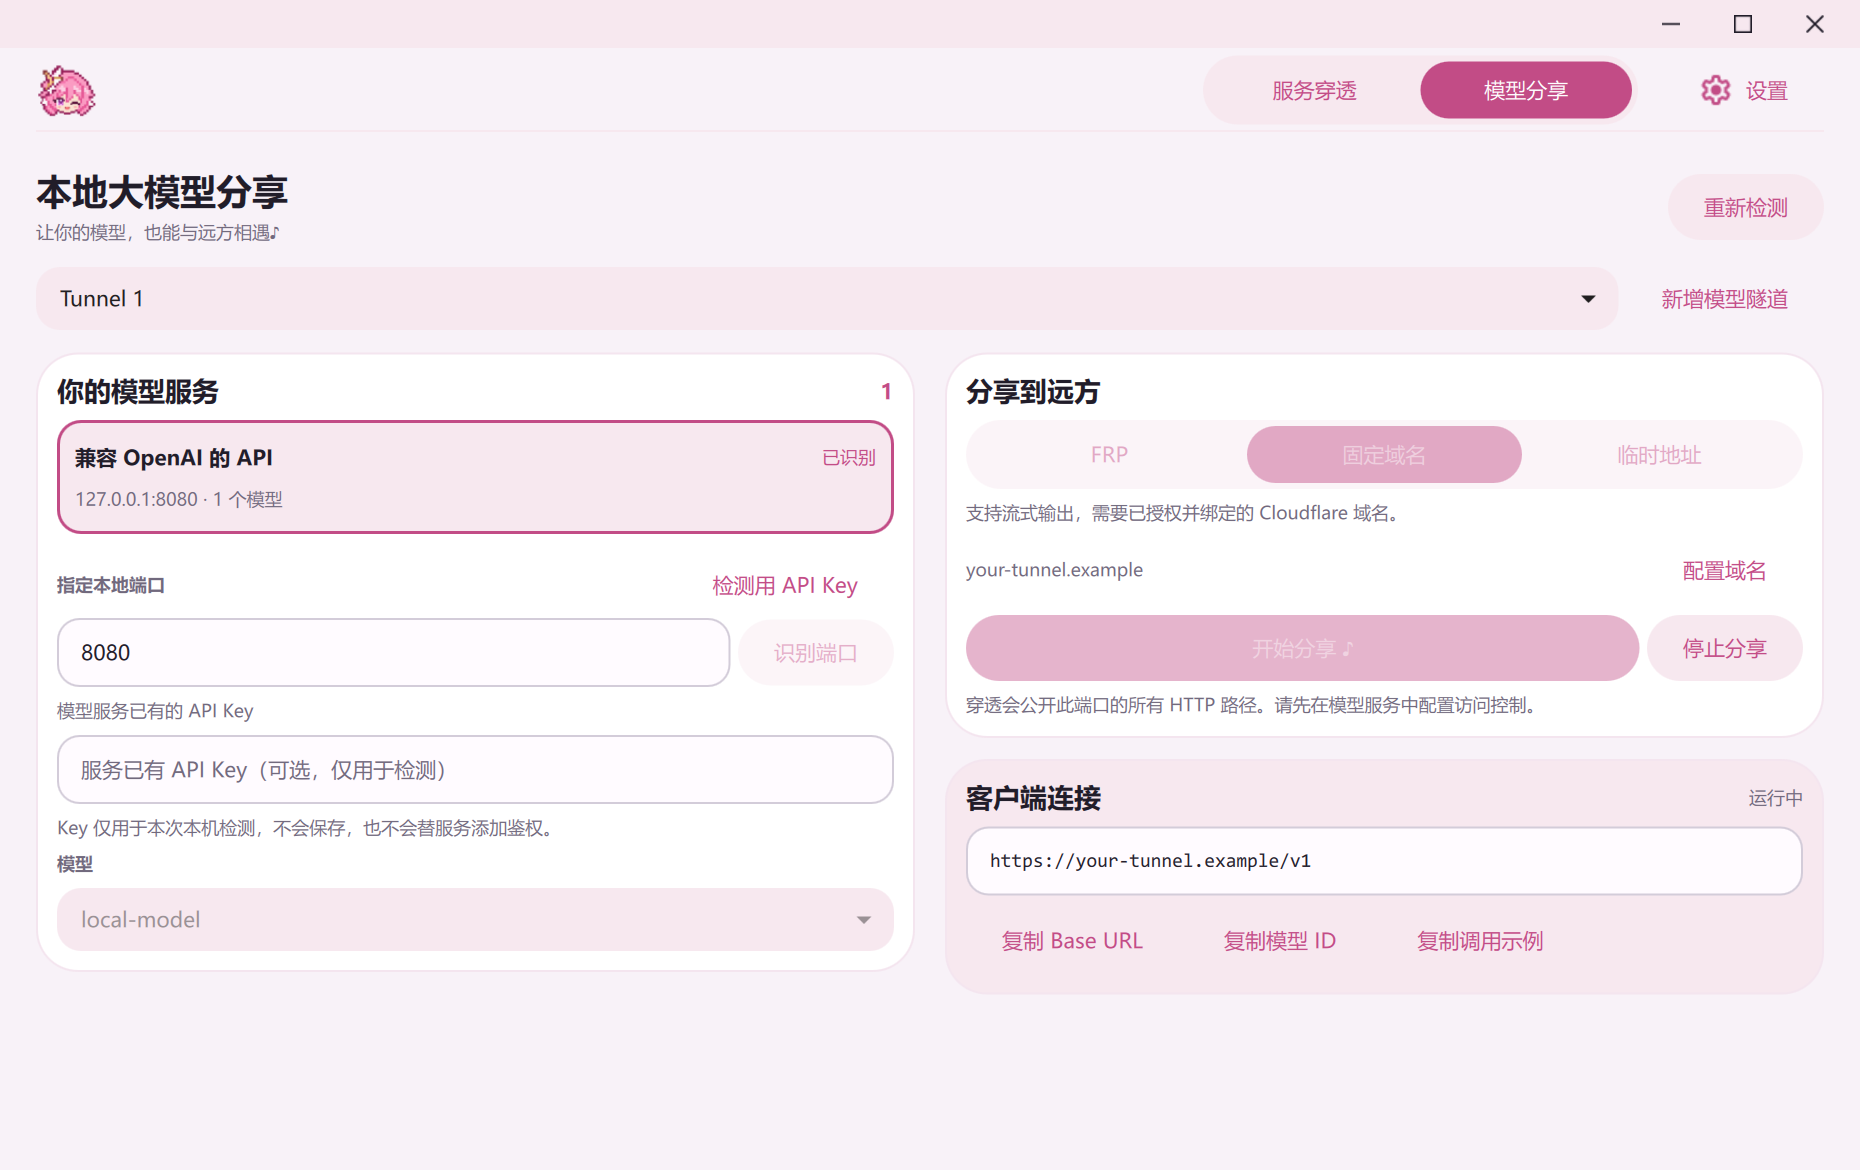
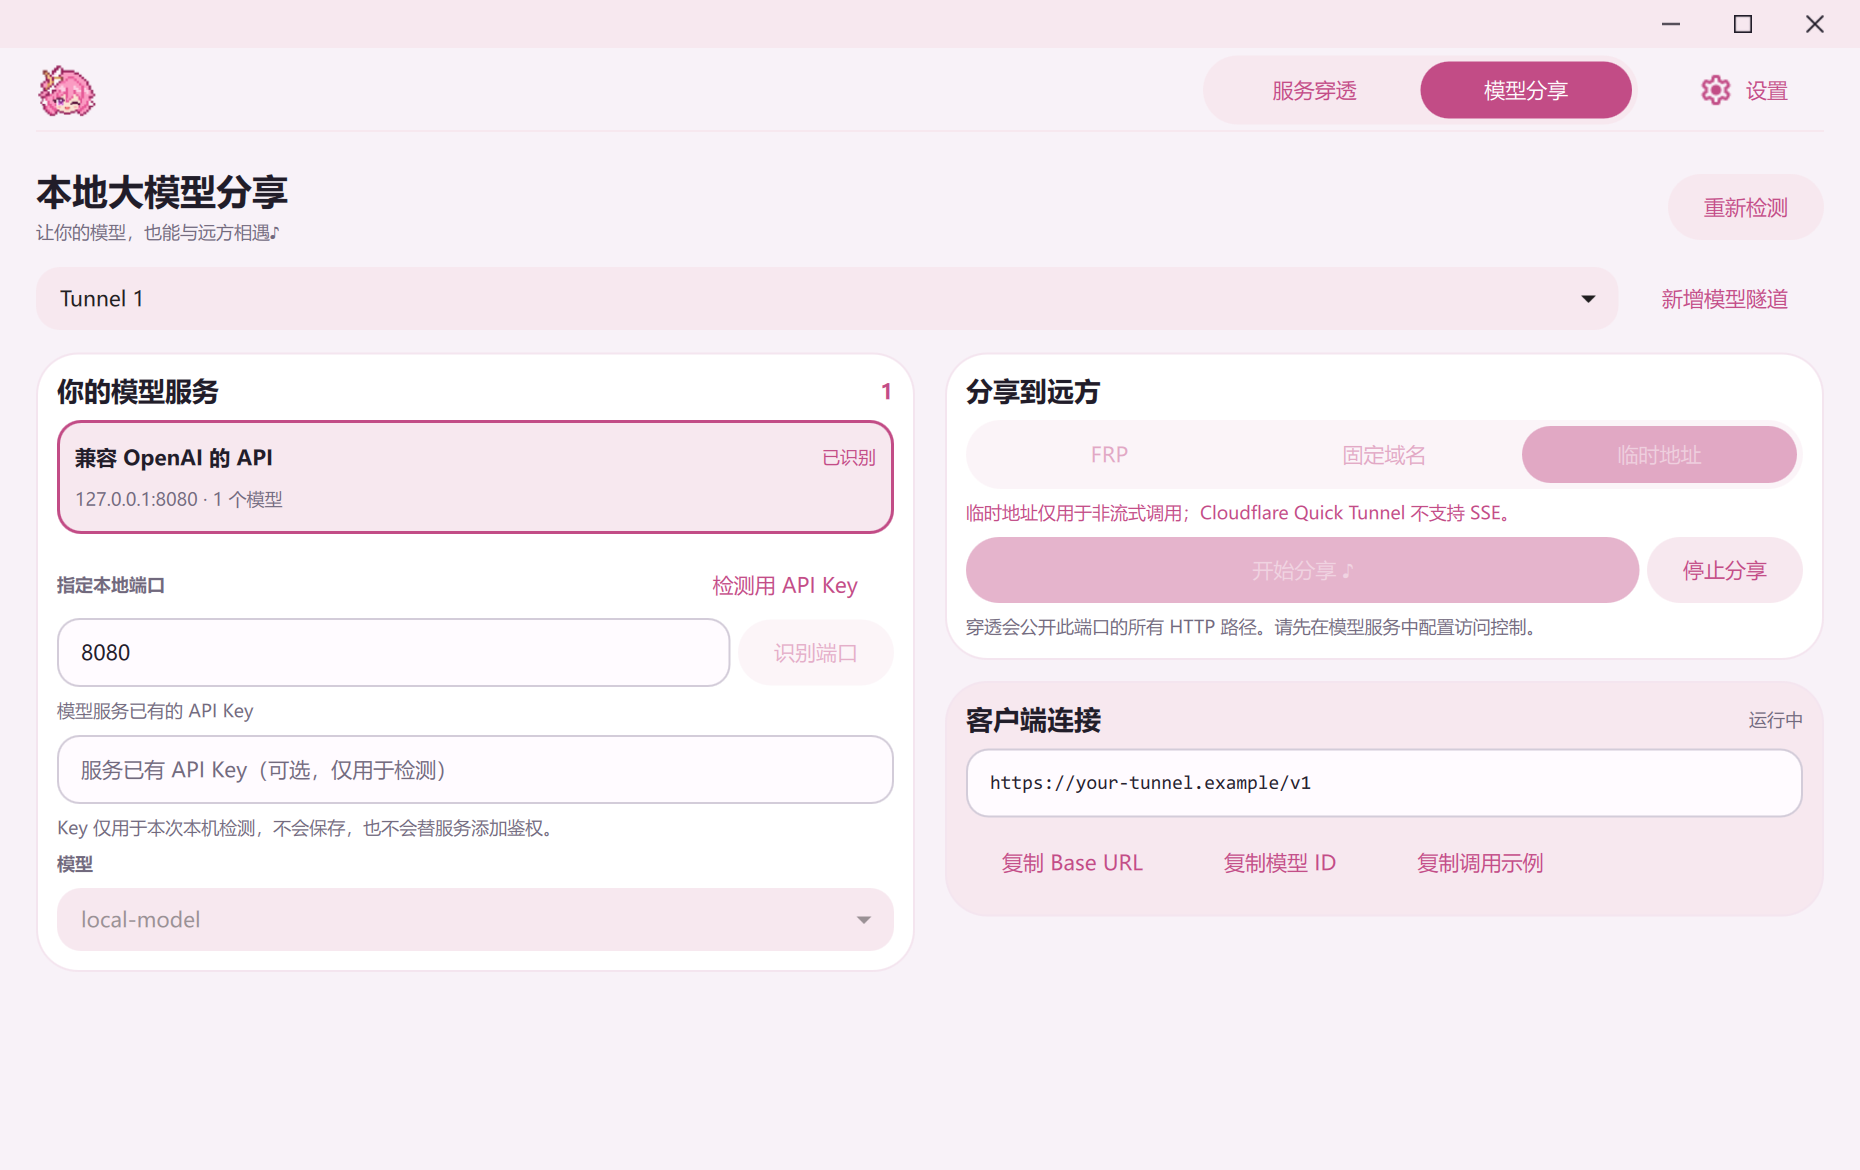
完善密钥配置教程与临时隧道实测说明

diff --git a/README.en.md b/README.en.md
@@ -26,39 +26,65 @@ The v0.4.0 EXE is about 75.33 MiB. The release also includes a `.sha256` file to
 
 ## Illustrated walkthrough: Strata → Elysia → DeepSeek Harness
 
-This walkthrough uses Strata as the model server and DSH as the remote client. Complete **steps 1–3 on the computer running the model**, then **step 4 on the computer running DSH**. Strata and DSH are separate applications to install for this example.
+Run the model in Strata, share its API with Elysia, and connect DSH as the remote client. Complete **steps 1–3 on the computer running the model**, then **step 4 on the computer running DSH**. Install Strata and DSH separately.
 
 The screenshots show real interfaces with demonstration data: `local-model` is a placeholder model ID, and `https://your-tunnel.example/v1` is an example address that cannot be used. Use your own detected model and public address. The DSH screenshots use **0.2.0-rc.2**; later versions may have different menus.
 
-**Choose a suitable transport first.** DSH 0.2.0-rc.2 has no switch to disable streaming, so this walkthrough uses configured FRP or a Cloudflare fixed domain. Cloudflare documents that [Quick Tunnels do not support SSE](https://developers.cloudflare.com/tunnel/get-started/quick-tunnels/#limitations). Temporary addresses work with Elysia's **Copy example** Python code for non-streaming requests; use another transport for DSH streaming. Public model sharing through FRP or a fixed domain has not yet been tested here.
+**Cloudflare temporary addresses can be used with DSH. Configure a server API key before sharing Strata.** A temporary address has already worked with the actual DSH client: it fetched the model list and completed a short reply, and the user has also confirmed that their temporary address works with DSH. You do not need a Cloudflare account, your own domain, or an FRPS server for this route.
 
-### 1. Start the model in Strata
+**Before sharing a protected Strata model API: configure the key in Strata and restart → enter the same key in Elysia's Model sharing page and verify with Detect port → start sharing → enter the same key in DSH.** Entering a key only in DSH does not complete Elysia's verification. Ordinary services without authentication can be shared without a key.
 
-Follow [Strata's setup instructions](https://github.com/Niko1221/Strata#install). On Windows, double-click `START-HERE.bat`, wait for the model to load, and open `http://127.0.0.1:8080`. Select **About** to check the API address and model name. If you changed the port, use your own port in the following steps. Strata's project documents its installation, model downloads, and hardware requirements.
+Cloudflare documents that [Quick Tunnels do not support SSE](https://developers.cloudflare.com/tunnel/get-started/quick-tunnels/#limitations). The successful DSH requests show that the tested connection is usable; they do not guarantee every streaming response, long reply, client version, or long-running session. The earlier public DSH test did not have Strata's server authentication enabled, so it did not verify API-key authentication.
 
-Before public sharing, set a non-empty `api_key` in Strata's current model configuration (`strata-<model>.json`) and restart the service; see its [configuration notes](https://github.com/Niko1221/Strata/blob/main/docs/INSTALL.md#where-things-are-stored). Keep the service listening on `127.0.0.1`; Elysia forwards that local service. The **API key** field on Strata's web page lets the browser connect to the server. It does not configure server authentication.
+### 1. Configure Strata's server key, then start the model
+
+Follow [Strata's setup instructions](https://github.com/Niko1221/Strata#install) to install Strata and prepare your model. The Windows entry point is `START-HERE.bat`. Strata's project documents its installation, model downloads, and hardware requirements.
+
+**Enable Strata's server API key before sharing.** After the first setup, locate the `strata-<model>.json` configuration for the model you are actually running in the Strata directory; see its [configuration notes](https://github.com/Niko1221/Strata/blob/main/docs/INSTALL.md#where-things-are-stored). Open that file in a text editor and keep its existing settings. Add a non-empty `api_key` property inside the outermost braces, or replace its value if it already exists:
+
+```json
+"api_key": "REPLACE_WITH_YOUR_OWN_RANDOM_KEY"
+```
+
+The example only shows the property's JSON syntax; **do not replace your whole configuration with it, and do not use the example text as your key**. Choose your own random long secret. Separate this property from other properties with commas, without adding a trailing comma before the closing brace. Do not add a duplicate `api_key` property.
+
+Save the file, stop the running Strata service, and start the same model again with its `run-<model>.bat`, or select the same model through `START-HERE.bat`. **Refreshing the web page does not restart the server or apply this setting.** Keep the service listening on `127.0.0.1`; Elysia forwards that local service. See [Strata's server-key instructions](https://github.com/Niko1221/Strata/blob/main/docs/DETAILS.md#using-it).
+
+Wait for the model to be ready, open `http://127.0.0.1:8080`, and select **About** to check the API address and model name. If you changed the port, use your own port in the following steps. The **API key** field on Strata's web page is the key that the browser sends to the server. It does not enable server authentication. Enter the same key there to use the protected service. You will also use this key in Elysia and DSH below.
+
+If the service still rejects this key after restarting, check whether your start script supplies `--api-key` or the `STRATA_API_KEY` environment variable. These can override the JSON value; use the key that the running server actually has configured.
 
 ![Strata About page: check the local API address](docs/tutorial/strata-about.png)
 
-*Strata interface demonstration. Confirm that your own model service is ready before continuing; the pictured model and runtime data are placeholders.*
+*Strata interface demonstration with placeholder model and runtime data. Complete the JSON key configuration and server restart before continuing; the pictured browser input cannot replace those steps.*
 
 ### 2. Detect the service and start sharing
 
-Open Elysia Tunnel's **Model sharing** page. The app automatically looks for local model APIs. A service with a key may initially show **Verify first**: enter Strata's port (default `8080`) and its key in **Existing model server API key**, then click **Detect port**. Once the model list is available, select the service and model. Use **Scan again** if you started Strata after opening the page.
+Open Elysia Tunnel's **Model sharing** page. The app automatically looks for local model APIs. A protected service may initially show **Verify first**. **You must enter the Strata key inside Elysia and finish verification before sharing this protected model API:**
+
+1. Enter Strata's port (default `8080`).
+2. Enter the same server key configured in step 1 in **Existing model server API key**, then click **Detect port**.
+3. Wait for successful verification and the model list, then select the service and model. Use **Scan again** if you started Strata after opening the page.
+
+When first configuring authentication, check it with an empty or incorrect key: click **Detect port** and the service should remain at **Verify first**. Then enter the correct key and detect again; the model list should appear. With server authentication enabled, a missing or incorrect key makes Strata reject `/v1/models` with HTTP `401`, and Elysia cannot start sharing that unverified model API. If an incorrect key still reads the list, check the active model's configuration and restart before sharing.
+
+Elysia uses the entered key for that detection attempt, then clears the field. It does not save the key, enable authentication on Strata, or fill the key into remote clients. Each DSH client must enter the same key separately in step 4.
 
 ![Automatically detect Strata's model API](docs/tutorial/elysia-detect.png)
 
-*Detection interface demonstration. Model names come from the service's actual list. Detection only reads that list; it does not load models or run inference, and the detection key is not saved.*
+*Detection interface demonstration with a masked demonstration key. Model names come from the service's actual list. Detection only reads that list; it does not load models or run inference, and the detection key is not saved. The v0.4.0 interface in these screenshots still contains the older non-streaming-only hint for temporary addresses; that hint does not reflect the successful DSH connection described here.*
 
-Choose your transport, then click **Start sharing ♪**. For **Fixed domain**, open **Settings**, choose **Fixed domain** in the address options, authorize your account, and bind your domain. This requires your own domain managed by Cloudflare. For **FRP**, configure your own FRPS server and enter the remote forwarding port. Detection alone does not make the service public.
+In **Model sharing**, choose **Temporary address** and click **Start sharing ♪**. Wait for the connection and public address. This route requires an internet connection but no account login, domain binding, or FRPS configuration. Detection alone does not make the service public.
+
+If you later want a stable address, **Fixed domain** is an optional alternative: authorize your Cloudflare account and bind your own Cloudflare-managed domain in Settings. **FRP** is another option when you have an FRPS server and an accessible remote forwarding port. Neither is required for a temporary address. Public model sharing through these alternatives has not yet been tested here.
 
 ### 3. Copy the client address and model ID
 
-Once connected, click **Copy Base URL** and **Copy model ID** under **Client connection**. The Base URL must include its final `/v1`, as in `https://your-tunnel.example/v1`. Copy the actual model ID rather than the screenshot's `local-model` placeholder.
+Once connected, click **Copy Base URL** and **Copy model ID** under **Client connection**. A temporary Base URL looks like `https://<assigned-name>.trycloudflare.com/v1` and must include its final `/v1`. Copy the actual model ID rather than the screenshot's `local-model` placeholder.
 
 ![Copy the model API address and model ID](docs/tutorial/elysia-share.png)
 
-*Connection information demonstration. The domain and connected status are examples; use your own address after connecting. The remote client cannot use the model computer's `127.0.0.1:8080`.*
+*Connection information demonstration with Temporary address selected. The `your-tunnel.example` address and connected status are placeholders; use your own generated `trycloudflare.com` address after connecting. The remote client cannot use the model computer's `127.0.0.1:8080`.*
 
 ### 4. Connect DeepSeek Harness
 
@@ -70,12 +96,12 @@ Install and open [DeepSeek Harness](https://www.deepseek.com/en/download/). In t
 | Display name | A name such as `Strata` |
 | API protocol | **OpenAI Chat Completions** |
 | Base URL | The public address copied from Elysia, ending in `/v1` |
-| API key | The real key configured in Strata in step 1 |
+| API key | **Required: exactly the same server key configured in Strata and verified in Elysia** |
 | Model ID | The ID copied in step 3, or a model selected after fetching the list |
 
 ![DeepSeek Harness custom model provider configuration](docs/tutorial/dsh-provider.png)
 
-*DSH configuration demonstration. Replace the example address and enter your own Strata API key. Choose Chat Completions for this walkthrough, rather than OpenAI Responses or Anthropic.*
+*DSH configuration demonstration. Replace the example address, enter your own Strata API key, and select OpenAI Chat Completions.*
 
 Click **Fetch available models**, select your model, and click **Add selected**. If DSH cannot fetch the list, use **Add model** and paste the exact model ID copied in step 3. Finish with **Create provider**.
 
@@ -121,7 +147,7 @@ Stopping the tunnel ends access through that public address. Reconnecting create
 
 | Option | Use | What you need |
 | --- | --- | --- |
-| Cloudflare temporary address | Temporarily share HTTP / HTTPS services; use non-streaming requests for model APIs | A running local service and an internet connection |
+| Cloudflare temporary address | Temporarily share HTTP / HTTPS services and model APIs; DSH model-list retrieval and a short reply have been tested successfully | A running local service and an internet connection; protected model APIs also require the server key |
 | Cloudflare fixed domain | Give your service a stable address on your own domain | A Cloudflare-managed domain, account authorization, and a bound tunnel |
 | FRP | Forward TCP ports through your own server | FRPS configuration and an accessible remote forwarding port |
 | Auto mode | Prefer Cloudflare for HTTP / HTTPS, with configured FRP as a fallback | The configuration required for each transport |
@@ -134,7 +160,9 @@ Tunnel configurations are saved locally for next time, but connections do not st
 
 Local Windows 11 checks cover language switching, Settings navigation and return, independent tunnel-process management, FRPS profile switching, tray behavior, and cleanup on exit. Interaction checks cover button ripples, keyboard input, animation speed, and disabling animations. Window checks cover resizing without shifting the top-left position, maximizing to the screen's work area, and restoring the original position and size.
 
-Model discovery and sharing checks cover reading model lists, detection-key handling, copying client addresses and examples, preserving existing tunnel configurations, HTTP forwarding, and cleanup. This round used a Cloudflare temporary address to read a Strata server's model list publicly and complete one non-streaming request. The actual DeepSeek Harness (DSH) Windows client also fetched models and completed one short reply.
+Model discovery and sharing checks cover reading model lists, detection-key handling, copying client addresses and examples, preserving existing tunnel configurations, HTTP forwarding, and cleanup. Earlier tests used a Cloudflare temporary address to read a Strata server's model list publicly and complete one non-streaming request. The actual DeepSeek Harness (DSH) Windows client also fetched models and completed one short reply, and the user has since confirmed that their temporary address works with DSH. These results establish that temporary-address model sharing can work with DSH in the tested configuration.
+
+Strata's server authentication was not enabled in that earlier public DSH test. The client key value was not retained, so the test does not establish whether DSH sent no key or a placeholder key, and it does not verify server API-key authentication. Public DSH requests with Strata's server authentication enabled have not been tested here.
 
 One successful DSH request does not establish general SSE streaming support on Quick Tunnels or verify every model, client, or long-running session. Windows 10, real FRPS forwarding, Cloudflare account and fixed-domain operations, HTTPS origin certificates, and long-running stability remain unverified.
 

diff --git a/docs/tutorial/README.md b/docs/tutorial/README.md
@@ -5,12 +5,12 @@
 | 图片 | 内容 | 拍摄范围 |
 | --- | --- | --- |
 | `strata-about.png` | Strata「关于」页面与本机 API 地址 | 实际网页界面，注入演示元数据；未加载模型或发起推理 |
-| `elysia-detect.png` | Elysia 自动识别后的服务与模型列表 | 独立配置，演示模型元数据；未连接真实模型服务 |
-| `elysia-share.png` | 分享后的 Base URL 与复制按钮 | 演示域名与连接状态；未建立公网隧道 |
+| `elysia-detect.png` | Elysia 输入检测 Key 后的服务与模型列表 | 独立配置，已验证状态与模型元数据为演示内容；固定占位 Key 使用密码掩码，未连接真实模型服务 |
+| `elysia-share.png` | 选择临时地址后的 Base URL 与复制按钮 | 演示域名与连接状态；未建立公网隧道，未执行密钥鉴权请求 |
 | `dsh-provider.png` | DSH 自定义模型 API 表单 | 示例地址与占位密钥，不含真实凭据 |
 | `dsh-model.png` | DSH 模型下拉列表 | 独立测试配置，提供商注明「本地演示」 |
 | `dsh-chat.png` | DSH 发送消息并收到回复 | 实际 DSH 调用本机模拟接口；未调用真实模型或公网隧道 |
 
-DSH 截图版本：0.2.0-rc.2。拍摄日期：2026-10-08。
+DSH 截图版本：0.2.0-rc.2。Strata / DSH 配图拍摄日期：2026-10-08；两张 Elysia 配图更新日期：2026-10-09。Elysia v0.4.0 实际界面仍显示旧的「仅用于非流式」提示；README 正文另行说明临时隧道已完成的 DSH 连接测试与 Cloudflare 官方 SSE 限制。
 
-The screenshots show real application interfaces with demonstration data. `local-model` and `https://your-tunnel.example/v1` are placeholders. The Elysia connection state is simulated, and the DSH reply comes from a local mock API. No screenshots contain real credentials or establish a new public Strata inference test. DSH version: 0.2.0-rc.2. Captured on 2026-10-08.
+The screenshots show real application interfaces with demonstration data. `local-model` and `https://your-tunnel.example/v1` are placeholders. The Elysia detection key is a masked placeholder, verification and connection states are simulated, and the DSH reply comes from a local mock API. No screenshots contain real credentials or establish a new public Strata inference or authentication test. The actual Elysia v0.4.0 interface retains an older non-streaming-only hint; the README separately describes the successful DSH tests and Cloudflare's documented SSE limitation. DSH version: 0.2.0-rc.2. Strata / DSH captures: 2026-10-08. Elysia captures updated: 2026-10-09.
